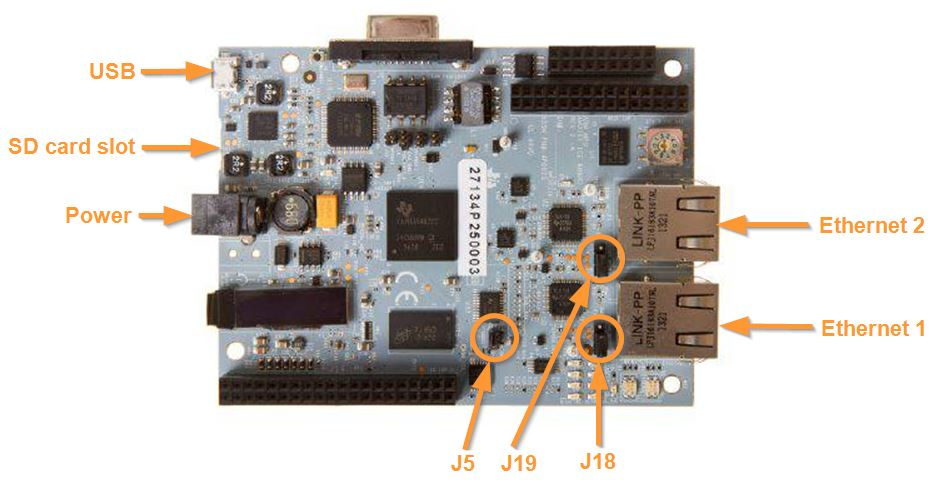
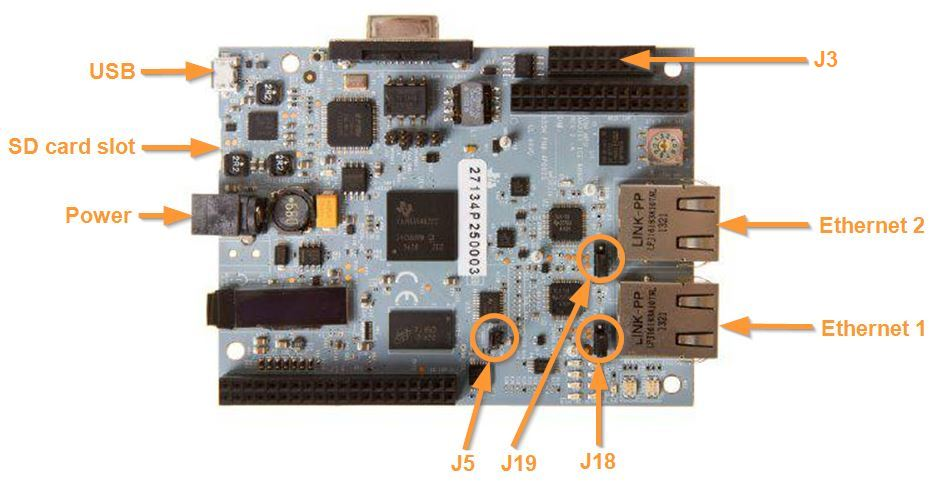
hsl-ti: README.md: Add info about PPP over UART4 on ICEv2 board

Changed region(s): [[0.6499, 0.092, 0.8975, 0.1534]]

diff --git a/meta-tanowrt-hsl-ti/README.md b/meta-tanowrt-hsl-ti/README.md
@@ -225,6 +225,60 @@ The web-configuration interface can be accessed via Ethernet port through HTTP(s
 
 Ethernet ports 1 and 2 (`eth0` and `eth1`) have LLDP enabled by default.
 
+#### 7.2.5 PPP Connection over UART4
+
+By default, the pppd service is running on the UART4 port ready for connection via null-modem cable with PC. UART4 signals are routed to J3 connector (Host Expansion Connector 2) of ICEv2 board. To connect the null-modem cable you need to use the following pins of the J3 connector:
+- pin 2 — Ground;
+- pin 7 — RX;
+- pin 8 — TX.
+
+To establish a connection on the PC side you need to run the pppd service with the following command:
+
+```shell
+pppd nodetach local lock noauth nocrtscts passive <IP-address-1>:<IP-address-2> <Serial-device> 115200 &
+```
+
+where:
+- `<IP-address-1>` — IP-address of your PC (e.g. `172.16.0.100`) for PPP connection;
+- `<IP-address-2>` — IP-address of the ICEv2 board (e.g. `172.16.0.1`) for PPP connection;
+- `<Serial-device>` — Serial device name (e.g. `/dev/ttyS1`);
+- `115200` — Serial port baud rate. If you need to change the baud rate, you should also do it on the ICEv2 board in the configuration file `/etc/config/network` (section `config interface 'uart4'`, option `pppd_options`) and execute command `ubus call network reload`.
+
+For example, if your PC has a serial device named `/dev/ttyS1`, the IP addresses of the PPP connection should be assigned to `172.16.0.100` (your PC) and `172.16.0.1` (ICEv2 board), then pppd should be started with the following command:
+
+```shell
+pppd nodetach local lock noauth nocrtscts passive 172.16.0.100:172.16.0.1 /dev/ttyS1 115200 &
+```
+
+After executing this command on your PC you should see the `ppp0` interface with the assigned IP address `172.16.0.100`:
+
+```shell
+# ifconfig ppp0
+ppp0: flags=4305<UP,POINTOPOINT,RUNNING,NOART,MULTICAST>  mtu 1500
+          inet addr:172.16.0.100  netmask 255.255.255.255  destination 172.16.0.1
+          ppp  txqueuelen 3  (Point-to-Point Protocol)
+          RX packets 14  bytes 293 (293.0 B)
+          RX errors 0  dropped 0  overruns 0  frame 0
+          TX packets 11  bytes 119 (119.0 B)
+          TX errors 0  dropped 0 overruns 0  carrier 0  collisions 0
+```
+
+Now you can access ICEv2 board from your PC using IP address `172.16.0.1`. For example, you can test it with the `ping` command:
+
+```shell
+# ping 172.16.0.1
+PING 172.16.0.1 (172.16.0.1): 56 data bytes
+64 bytes from 172.16.0.1: seq=0 ttl=64 time=21.212 ms
+64 bytes from 172.16.0.1: seq=1 ttl=64 time=22.162 ms
+64 bytes from 172.16.0.1: seq=2 ttl=64 time=22.233 ms
+64 bytes from 172.16.0.1: seq=3 ttl=64 time=22.186 ms
+64 bytes from 172.16.0.1: seq=4 ttl=64 time=20.161 ms
+^C
+--- 172.16.0.1 ping statistics ---
+5 packets transmitted, 5 packets received, 0% packet loss
+round-trip min/avg/max = 20.161/21.590/22.233 ms
+```
+
 ### 7.3 TI AM574x IDK EVM (`am574x-idk-sd`)
 
 ![AM574x IDK EVM](docs/am574x-idk-board.jpg)
